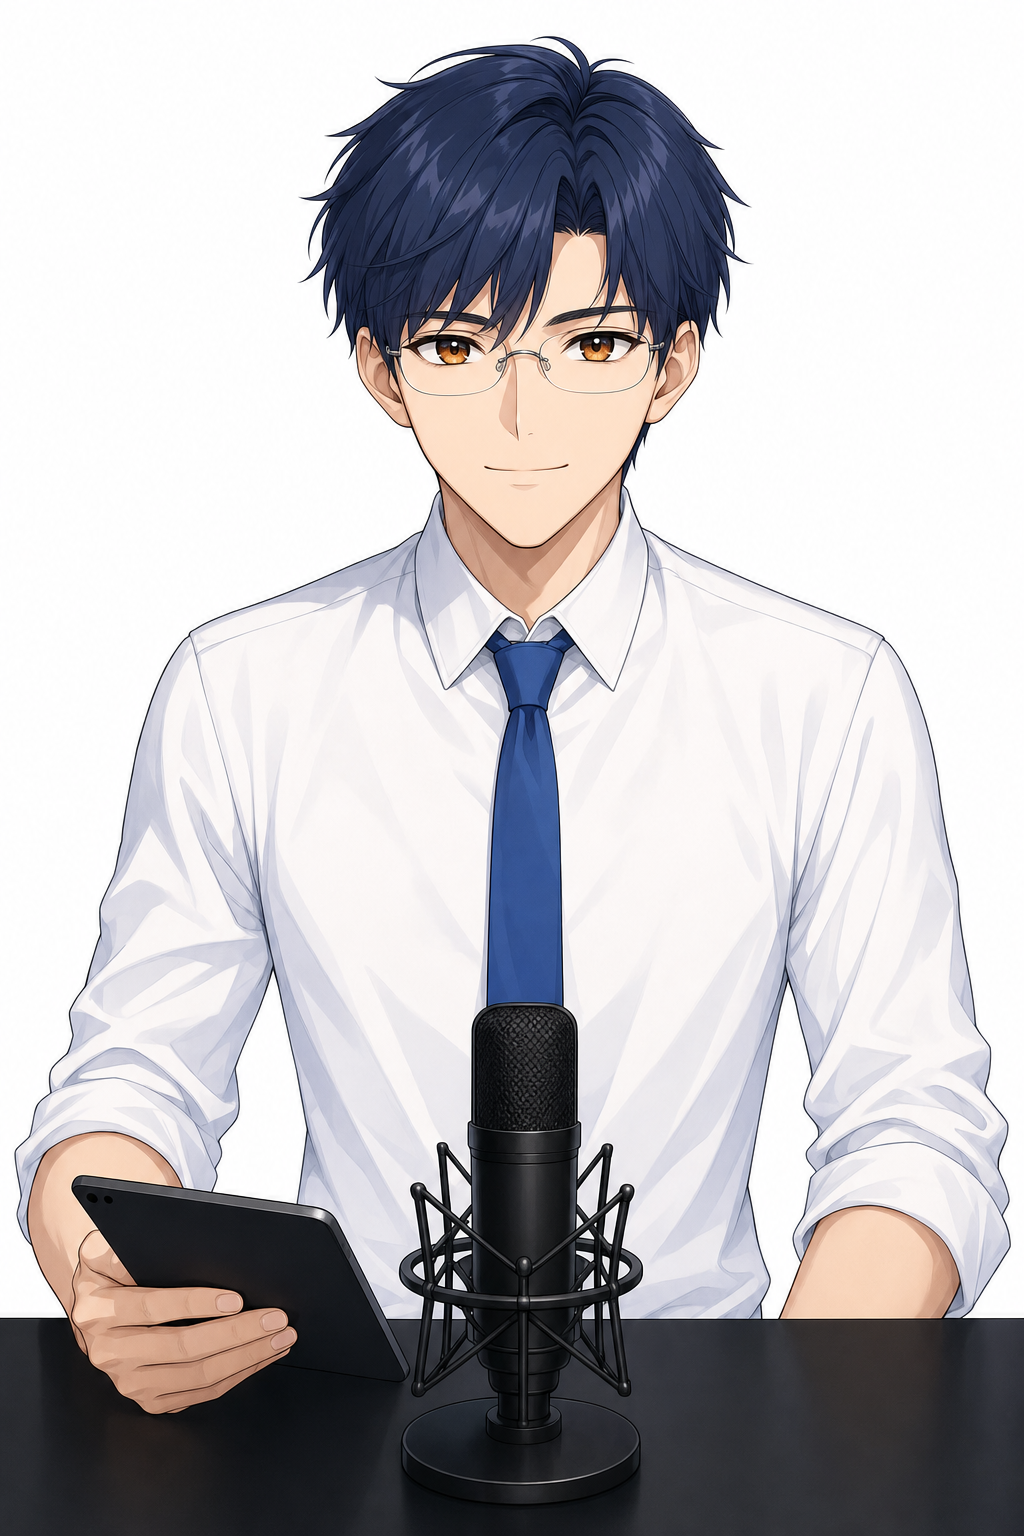
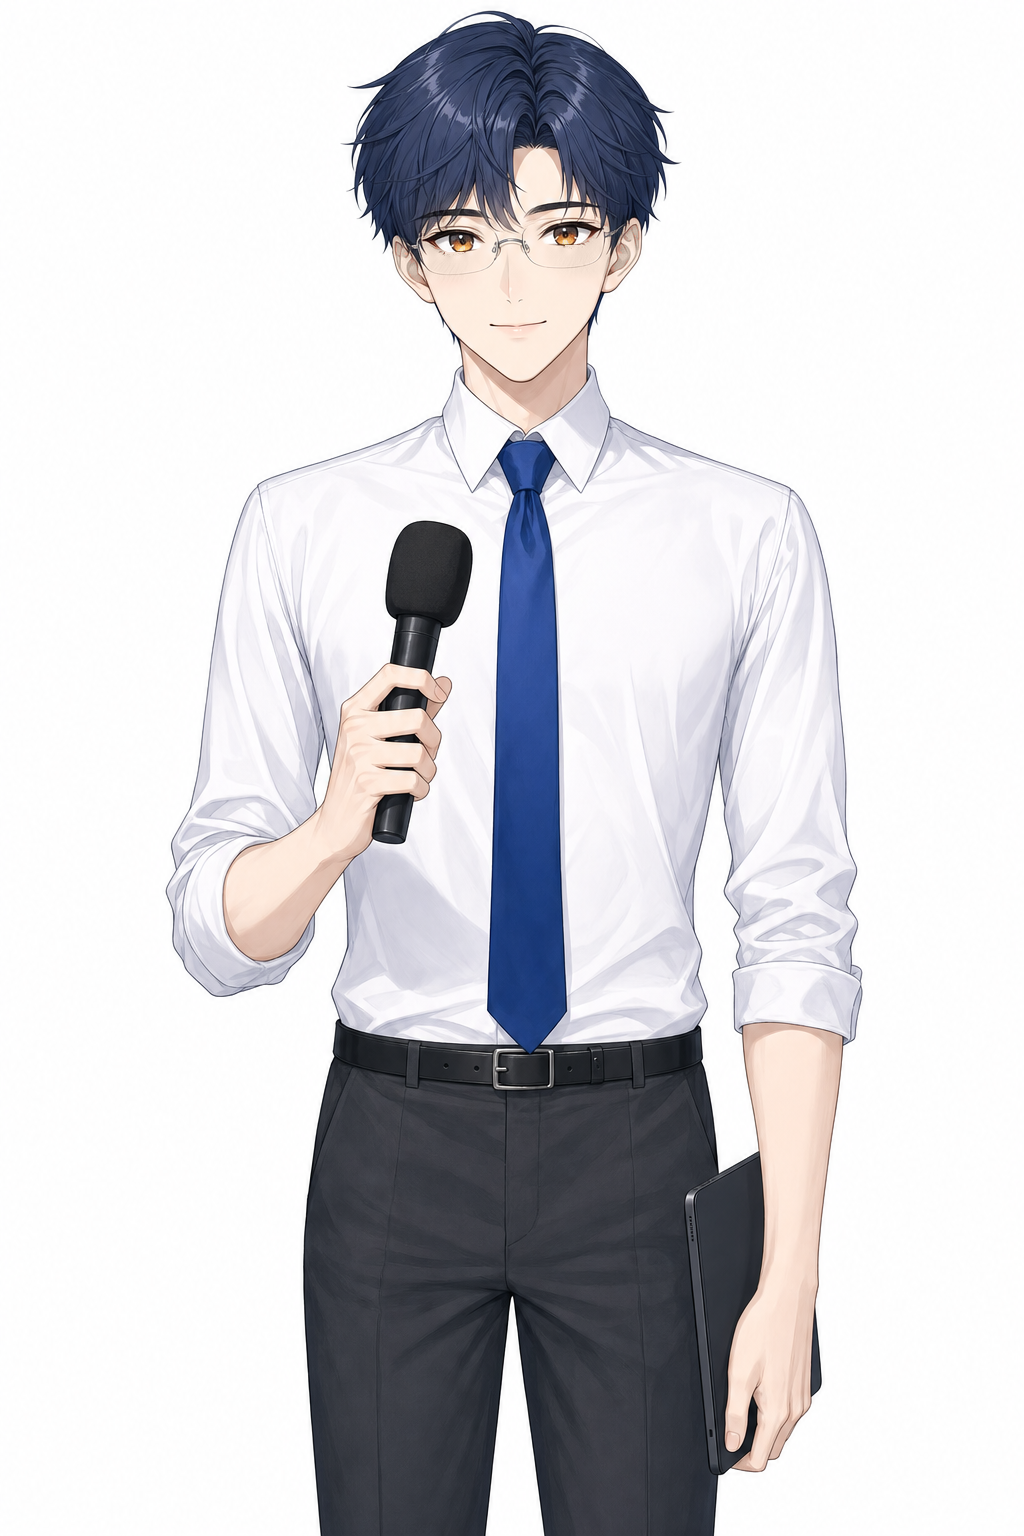
feat: 카이를 반신 정면 직립으로 통일 + 얼굴 리터치 도구 추가
카이만 데스크 바스트업이라 미아·레이와 같은 포맷에 세울 수 없었다. 반신 정면
직립으로 다시 그려 리포터 3인이 같은 캔버스 규격을 공유하게 했다. 서는 구도라
콘덴서 마이크를 무선 핸드헬드로 바꾸고, 태블릿은 내린 손에 쥐게 해서 "한 팔은
자연스럽게 내림" 규칙과 양립시켰다.

아래 속눈썹과 볼터치 제거는 재생성으로 풀지 않고 리터치 도구를 만들었다.
생성 모델에 "이것만 빼라"고 다시 걸면 매번 전체를 다시 그려서 요청하지 않은
것까지 바뀐다 — 실제로 프레임이 2:3에서 1:2로 홀쭉해지고 마이크 든 손이 반대로
뒤집혔다. codex의 image_gen에는 입력 이미지를 받는 편집 모드가 없어서(EDIT MODE
UNAVAILABLE) 승인본 픽셀을 유지하며 해당 영역만 고치는 쪽을 택했다.

검출은 색으로 한다. 홍채 실측값이 r-b 140~155이고 그늘진 피부는 50~80이라
임계값으로 갈린다(느슨하게 잡으면 볼 그늘을 홍채로 오인해 눈 bbox가 118x494까지
부풀었다). 좌우 눈은 x 중앙값이 아니라 x 분포의 최대 빈 구간에서 가른다. 볼터치
범위는 눈 높이 배수로 추정하면 짧게 잡혀서, 행별 붉기 초과 픽셀 프로파일로
적응 계산한다.

속눈썹 제거는 두 번 실패한 뒤 방식을 바꿨다. 같은 열의 피부색을 복사하면 세로
얼룩이 생기고 홍채 아랫부분까지 잘렸고, 밴드를 눈 전체 폭으로 잡으면 아래 눈꺼풀
선까지 지워 눈이 뭉개졌다. 각 눈의 바깥쪽 절반만 대상으로 삼고 주변 반경 4px의
피부색 평균으로 덮는 방식으로 해결했다.

diff --git a/CHARACTERS-REPORTERS-DRAFT.md b/CHARACTERS-REPORTERS-DRAFT.md
@@ -30,7 +30,7 @@
 | 로지 (기존) | 민트 `#57e6c3` | 민트/아쿠아 롱 스트레이트 | 틸 | 바스트업(스튜디오) | **메인 앵커** — 진행·정리, 밝고 명랑 |
 | 미아 (초안) | 라벤더 `#b28cf0` | 라벤더-바이올렛 하프업 포니테일 | 앰버 골드 | **반신 스탠딩** | 신작 첫인상·이벤트 속보, 텐션 높고 리액션 큼 |
 | 레이 (초안) | 슬레이트 블루 `#5b7fa6` (넥타이) | 애쉬 슬레이트 `#5c6b7a` | 블루 그레이 | **반신 스탠딩(현장)** | 현장 취재·심층 리포트, 차분하고 자신감 있는 톤 |
-| 카이 (초안) | 코발트 블루 (넥타이) | 딥 네이비 `#2a3a6b` | 앰버 | 바스트업(데스크) | 데이터·분석, 낮은 톤·결론부터 |
+| 카이 (초안) | 코발트 블루 (넥타이) | 딥 네이비 `#2a3a6b` | 앰버 | **반신 스탠딩** | 데이터·분석, 낮은 톤·결론부터 |
 
 카이만 머리색이 시그니처가 아니라 **넥타이가 시그니처**다. 남성 캐릭터에 판타지 헤어를 쓰면
 위화감이 커서(원색 코발트 헤어 시안이 그랬다) 머리는 저채도로 내리고 색은 목에서 준다.
@@ -91,12 +91,18 @@
 
 ### ⚠ codex-imagegen 함정 (이 프로젝트에서 실측)
 
-`.tmp/` 같은 **숨김 디렉터리 안의 이미지를 참조로 넘기면 Windows 샌드박스가 거부**한다
-(`failed to prepare windows sandbox wrapper: ... refusing to run unsandboxed`).
-이때 codex는 **참조 없이 그냥 생성해버리므로 조용히 실패**한다 — 지시가 무시된 것처럼 보인다.
+**참조 이미지를 읽지 못하면서 조용히 실패한다.** Windows 샌드박스가 거부하면
+(`failed to prepare windows sandbox wrapper: ... refusing to run unsandboxed`)
+codex는 **참조 없이 그냥 생성해버린다** — 지시가 무시된 것처럼 보이지만 실제로는 참조가 없었던 것이다.
+실측으로 두 경우에 발생했다:
 
-→ **참조 이미지와 출력 경로는 모두 숨김이 아닌 경로를 쓴다.**
-   참조 = `playcast-blog/public/host/draft/*.png`, 출력 = `gen-out/`
+1. `.tmp/` 같은 **숨김 디렉터리**의 이미지를 참조로 넘길 때
+2. 참조와 출력의 **루트가 다를 때**(참조 `generated_images/` + 출력 `gen-out/`) — 간헐적
+
+→ **참조와 출력을 같은 디렉터리로 맞춘다**(예: 둘 다 `gen-out/`). 숨김 경로는 쓰지 않는다.
+
+**입력 이미지를 편집하는 모드가 없다.** i2i/인페인팅을 시켜도 `EDIT MODE UNAVAILABLE`이다.
+"이 이미지의 이것만 고쳐라"는 생성으로 풀 수 없다 → §6 참조.
 
 ## 3. 카이 (Kai) ♂ — 데이터·분석
 
@@ -106,15 +112,17 @@
 
 - **머리**: 딥 네이비(`#2a3a6b`) **단일색** — 투톤·이너하이라이트·그라데이션 금지.
   짧고 정돈된 레이어컷 + 살짝 긴 앞머리.
-- **눈**: 앰버. 하이라이트 있는 광택 홍채.
-- **얼굴**: 23세 전후, 짧은 얼굴·찬 볼·완만한 눈꼬리. 명암 대비 낮은 **소프트 애니 채색**으로
-  로지·미아의 밝은 채색 언어에 맞춘다.
-- **복장**: 화이트 셔츠 **소매 롤업** + **코발트 블루 슬림 타이**(시그니처). 무테 안경.
+- **눈**: 앰버. 하이라이트 있는 광택 홍채. **아래 속눈썹 없음**(위 눈꺼풀 선만).
+- **얼굴**: 20대 초중반, 짧은 얼굴·찬 볼·가는 콧대의 **미형(비쇼넨)**. **볼터치 없음** —
+  피부는 얼굴 전체가 균일한 톤. 명암 대비 낮은 **소프트 애니 채색**으로 로지·미아에 맞춘다.
+- **복장**: 화이트 셔츠 **소매 롤업** + **코발트 블루 슬림 타이**(시그니처) +
+  다크 차콜 슬림 슬랙스 + 얇은 검정 벨트. 무테 안경.
   **베스트·니트·재킷 등 셔츠 위 레이어는 쓰지 않는다**(리그 파츠에서 팔 분리가 어려워진다).
-- **소품**: 스튜디오 콘덴서 마이크 + 손에 슬림 태블릿.
-- **프레이밍**: 바스트업 데스크 구도. 리포터 반신 규격과 다르다(§5 참조, 통일 여부는 미정).
+- **소품**: **무선 핸드헬드 스틱 마이크**(가슴 높이, 타이를 가리지 않게 중앙에서 비껴) +
+  내린 손에 슬림 태블릿(허벅지 옆). 팔이 몸을 따라 곧게 내려가므로 "한 팔은 내림" 규칙과 양립한다.
+- **프레이밍**: 미아·레이와 동일 규격 — **머리~허벅지 반신, 정면 직립**(§5).
 - **말투**: 낮은 톤, 짧고 단정한 문장, 결론부터. 농담은 건조하게 한 번.
-- **상태**: 초안 `public/host/draft/kai.png` (= kai-mix2-young)
+- **상태**: 초안 `public/host/draft/kai.png` (= kai-half4-b + 얼굴 리터치)
 
 ### 카이 제작 노트 (남성 캐릭터의 함정)
 
@@ -126,8 +134,13 @@
 4. **"중간으로 섞어라"는 지시는 축을 명시해야 한다** — 나이대·그림체·이목구비·소품이 각각 다른 축이다.
    방향이 불확실하면 **중간값을 사이에 두고 양쪽으로 브래킷 생성**하면 한 번에 좁혀진다
    (어리게/나이 들게 두 장을 동시에 뽑아 고르게 하는 방식).
-5. **미해결**: 마이크가 타이 하단을 가린다. 프롬프트로 3회 시도했으나 계속 재현된다.
-   → 마이크를 별도 레이어로 빼거나 이미지 편집으로 처리하는 편이 빠르다.
+5. ⚠**참조 이미지의 특징을 상대 표현으로 지시하면 그 방향으로 더 밀린다.**
+   "B의 얼굴로" 하려고 "더 긴 얼굴·더 좁은 눈"이라고 썼더니 모델이 그걸 기준점이 아니라
+   **방향**으로 읽어 B보다 더 날카롭고 더 나이 든 결과를 냈다.
+   → **절대 묘사로 쓴다**("중간 크기 아몬드 눈, 둥근 턱"). 여기에 **"참조보다 더 ~하게 가지 말 것"**을
+   금지로 붙이고, **실패본을 부정 참조로 함께 넣는다**("이것처럼 나오면 틀린 것"). 이렇게 하니 잡혔다.
+6. **미형화와 어리게 만들기는 같은 방향이 아니다.** 둘을 한 번에 걸면 "성숙한 미남" 쪽으로
+   흡수돼 연령이 안 내려간다(20세 요청 → 23~25세로 나옴). 어림을 우선순위로 명시해야 한다.
 
 ---
 
@@ -138,10 +151,10 @@
 - [x] 레이 자세 확정 — 정면 직립 (rei-v7-a)
 - [x] 미아 프레이밍을 레이와 동일한 반신 정면 직립으로 통일 (mia-v2-worn)
 - [x] **리포터 공용 캔버스 규격 확정 + 베이스 생성** → 아래 §5
-- [x] 카이 재개·확정 — 네이비 단일 헤어, 베스트 없음, 23세 소프트 애니 (kai-mix2-young)
-- [ ] **카이 프레이밍 결정** — 바스트업 유지할지, 미아·레이처럼 반신 정면 직립으로 통일할지.
-      반신으로 가면 §5 규격·도구를 그대로 적용할 수 있다(현재 바스트업이라 §5 대상이 아니다)
-- [ ] 카이 마이크/타이 겹침 정리 (프롬프트로는 안 잡힘 — 레이어 분리나 편집으로)
+- [x] 카이 재개·확정 — 네이비 단일 헤어, 베스트 없음, 미형 (kai-half4-b)
+- [x] 카이 프레이밍을 미아·레이와 같은 반신 정면 직립으로 통일 + §5 규격 적용
+- [x] 카이 마이크/타이 겹침 해소 (마이크를 중앙에서 비껴 잡게 함)
+- [x] 카이 아래 속눈썹·볼터치 제거 → §6 리터치 도구
 - [ ] 리그 파츠 세트 (`HOST-RIG-PARTS.md` 규격: blink / expr 8종 / mouth 7종) — 이때 레이 눈 크기 보정
 - [ ] `src/components/HostStage.astro` 다중 호스트 지원 (현재 로지 하드코딩)
 - [ ] `content.config.ts` frontmatter에 `host: rosie | mia | rei | kai` 필드 추가
@@ -153,8 +166,8 @@
 
 ## 5. 리포터 공용 캔버스 규격
 
-씬 단위로 캐릭터를 바꿔 끼우려면 두 리포터의 **눈높이와 인물 크기가 같아야** 한다.
-안 맞으면 씬이 넘어갈 때 인물이 위아래로 튀거나 커졌다 작아진다.
+씬 단위로 캐릭터를 바꿔 끼우려면 리포터들의 **눈높이와 인물 크기가 같아야** 한다.
+안 맞으면 씬이 넘어갈 때 인물이 위아래로 튀거나 커졌다 작아진다. 대상은 미아·레이·카이 3인이다.
 
 ### 규격
 
@@ -184,12 +197,13 @@
 # 베이스 생성 — 규격 정렬 + 배경 알파 컷을 한 번에
 node tools/host-base-align.mjs --in public/host/draft/mia.png --out public/host/base/mia.png
 node tools/host-base-align.mjs --in public/host/draft/rei.png --out public/host/base/rei.png
+node tools/host-base-align.mjs --in public/host/draft/kai.png --out public/host/base/kai.png
 
 # 검출 확인 (빨강=광대선, 초록=얼굴폭, 파랑=정수리)
 node tools/host-base-align.mjs --diag public/host/draft/rei.png /tmp/rei-diag.png
 
 # 정렬 검증 시트 (눈높이가 한 선에 오는지 눈으로 확인)
-node tools/host-base-align.mjs --sheet public/host/base/mia.png public/host/base/rei.png /tmp/sheet.png
+node tools/host-base-align.mjs --sheet public/host/base/mia.png public/host/base/rei.png public/host/base/kai.png /tmp/sheet.png
 ```
 
 `--no-alpha`로 알파 컷을 끄고 흰 배경 정렬본만 얻을 수 있다. `--alpha <src> <dst>`는 알파 컷만.
@@ -216,3 +230,49 @@ node tools/host-base-align.mjs --sheet public/host/base/mia.png public/host/base
 
 - 로지는 바스트업(500×500)이라 이 규격에 포함되지 않는다. 앵커 컷과 리포터 컷은 별도 규격이다.
 - 리그 파츠 분해 시 이 베이스를 원본으로 쓴다(알파가 이미 잡혀 있어 레이어 분리에 바로 들어갈 수 있다).
+
+---
+
+## 6. 얼굴 디테일 리터치 (`tools/host-face-retouch.mjs`)
+
+**"승인된 그림에서 이 디테일만 빼라"는 요구는 재생성으로 풀면 안 된다.**
+생성 모델은 매번 전체를 다시 그리므로 요청하지 않은 것까지 바뀐다. 실측:
+프레임 비율이 2:3 → 1:2로 홀쭉해지고, 마이크 든 손이 반대쪽으로 뒤집혔다.
+codex의 `image_gen`은 입력 이미지를 받는 편집 모드가 없다(`EDIT MODE UNAVAILABLE`).
+
+→ 승인본 픽셀을 유지하고 **해당 영역만 프로그램으로 고친다.**
+
+```bash
+# 검출 범위 확인 (초록=홍채bbox, 빨강=속눈썹 밴드, 하늘=볼터치 밴드)
+node tools/host-face-retouch.mjs --diag public/host/draft/kai.png /tmp/kai-diag.png
+
+# 적용 (둘 다 기본 실행 / --no-lash, --no-blush 로 개별 해제)
+node tools/host-face-retouch.mjs --in <src> --out <dst>
+```
+
+### 검출 방식과 그 근거
+
+- **눈 위치는 홍채 색으로 찾는다.** 실측 홍채는 rgb(221,146,66)·(243,173,89) 계열로 `r-b`가 140~155.
+  그늘진 피부는 `r-b`가 50~80이라 **`r-b>115`로 확실히 갈린다.**
+  느슨하게 잡으면 볼 그늘을 홍채로 오인해 눈 bbox가 118×494px까지 부풀었다.
+- **좌우 눈은 x 중앙값이 아니라 "x 분포의 최대 빈 구간"에서 가른다.** 중앙값으로 자르면
+  두 홍채가 한쪽 군집에 몰려 들어간다(실측: A가 104px 폭).
+- **볼터치 범위는 눈 높이 배수로 추정하면 안 된다.** 홍채는 밝은 부분만 검출되므로 배수식이
+  너무 짧게 잡혔다(추정 y248~273 vs 실제 y244~296). **행별 "붉기 초과" 픽셀 수 프로파일**을 만들어
+  피크의 25% 아래로 떨어질 때까지 넓힌다. 아래로는 입술(y324~)·목 그늘(y340~)이 있지만
+  그 사이 붉기가 거의 0으로 끊기므로 자연히 입술 앞에서 멈춘다.
+
+### 리터치 방식
+
+- **볼터치 제거**: 이마에서 기본 피부색조를 샘플(중앙값)해, 밴드 안 피부 픽셀의 색조를 그 값으로
+  정규화한다. G는 그대로 두고 R·B만 옮기므로 **음영 구조가 보존된다.** 밴드 경계는 페더 처리.
+  붉기 초과가 큰 픽셀(입술 등)은 임계값으로 보호한다.
+- **아래 속눈썹 제거**: 대상 픽셀을 **주변 반경 4px의 피부색 평균**으로 덮는다.
+  ⚠같은 열의 단일 피부색을 복사하면 **세로 얼룩이 생기고 홍채 아랫부분까지 잘린다**(1차 시도 실패).
+  ⚠밴드를 눈 전체 폭으로 잡으면 아래 눈꺼풀 선까지 지워 눈이 뭉개진다
+  → **각 눈의 바깥쪽 절반만** 대상으로 한다(아래 속눈썹은 눈꼬리 쪽 짧은 사선 몇 개다).
+
+### 검증
+
+확대 이미지로만 판단하지 말 것. 3~4배 확대에서는 잔흔이 크게 보이지만 **1:1 실제 크기**에서는
+보이지 않는다. 확대 비교로 눈 손상 여부를 보고, 1:1 비교로 최종 수용 여부를 판단한다.
